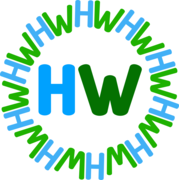
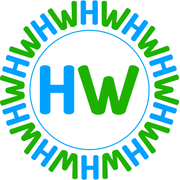
more updates

diff --git a/content/_index.md b/content/_index.md
@@ -7,6 +7,6 @@ Welcome!
 
 We're a pop-up hackspace in [Wimbledon, South West London](https://en.wikipedia.org/wiki/Wimbledon,_London), where people gather to make, create, illuminate, and learn.
 
-Everything from home automation and robotics, to digitally-enabled art and music.
+Everything from home automation and robotics, to digitally-enabled art and music. Hardware, software, making, and more.
 
-Check out the [About page](/about/) for more. You can also: learn about [who comes to our meetups, and our projects](/peopleandprojects/); join our [Discord server](https://discord.gg/py5VZarC2u) to chat with us; follow us on [socials](https://mastodon.org.uk/@hackwimbledon); or, just [come along](/meetings/) and enjoy creating!
+Check out the [About page](/about/) to find out about us. You can also: learn about [who comes to our meetups, and our projects](/peopleandprojects/); join our [Discord server](https://discord.gg/py5VZarC2u) to chat with us; follow us on [socials](https://mastodon.org.uk/@hackwimbledon); or, just [come along](/meetings/) and enjoy learning & creating!

diff --git a/content/news/2026-01-07-january-news/index.md b/content/news/2026-01-07-january-news/index.md
@@ -1,7 +1,7 @@
 ---
 title: Bringing HackWimbledon back for 2026
 date: 2026-01-07
-featured_image: "/img/hw-2026-logo-small.png"
+featured_image: "/img/hw-2026-logo-new-512.png"
 draft: false
 author: andy
 tags:

diff --git a/content/news/2025-04-14-april-update-plus/index.md b/content/news/2025-04-14-april-update-plus/index.md
@@ -1,7 +1,7 @@
 ---
 title: HackWimbledon New Look
 date: 2025-04-14
-featured_image: "/img/hw-2026-logo-small.png"
+featured_image: "/img/hw-2026-logo-new-512.png"
 draft: false
 author: dj
 tags:
